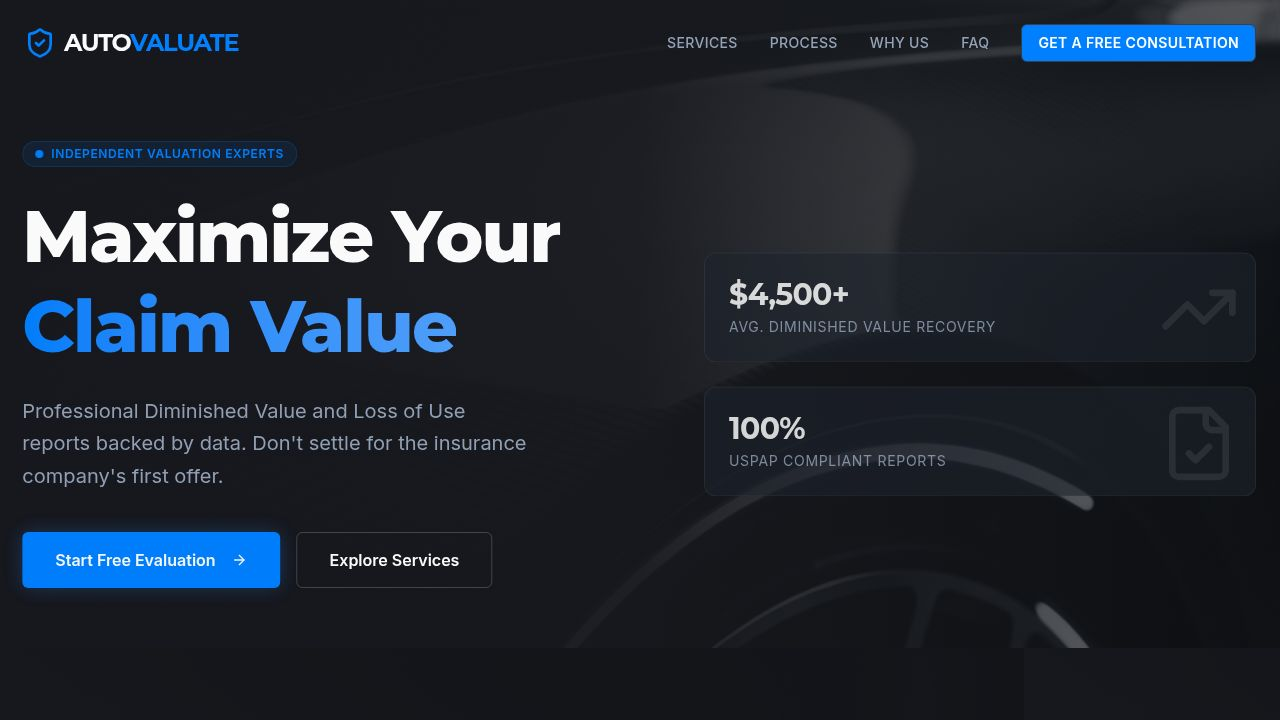
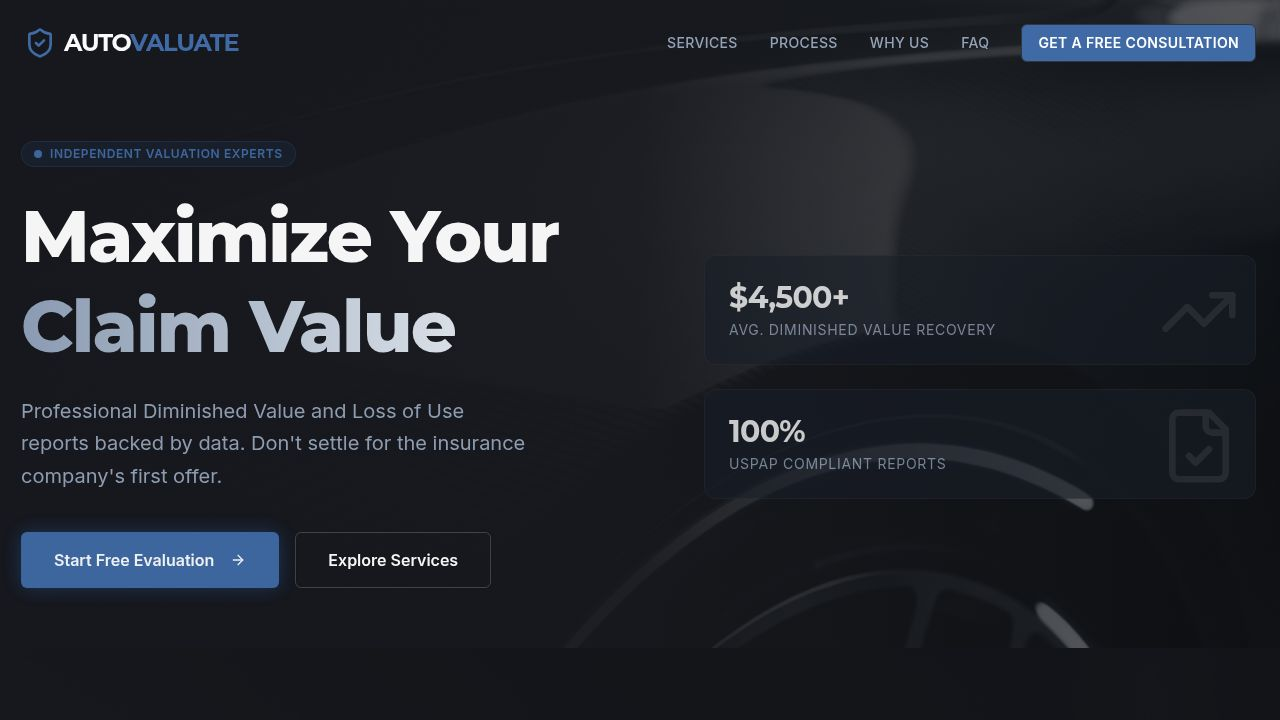
Update site colors to a professional steel blue with subtle graphite accents
Refactors color palette by updating CSS variables to use a desaturated steel blue for primary elements and a graphite/silver for secondary accents, affecting gradients and UI elements.

Replit-Commit-Author: Agent
Replit-Commit-Session-Id: a41c7c4f-b3be-4da7-b386-2bc4f03257c1
Replit-Commit-Checkpoint-Type: full_checkpoint
Replit-Commit-Event-Id: 400f68b1-01b4-464b-a264-b1af1fa9f103
Replit-Commit-Screenshot-Url: https://storage.googleapis.com/screenshot-production-us-central1/ea9309ca-e855-4645-a41a-92645ca743a7/a41c7c4f-b3be-4da7-b386-2bc4f03257c1/hK06aiY
Replit-Helium-Checkpoint-Created: true

diff --git a/client/src/index.css b/client/src/index.css
@@ -60,7 +60,7 @@
   --popover: 220 13% 13%;
   --popover-foreground: 210 20% 98%;
 
-  --primary: 210 100% 50%; /* Sharp Automotive Blue */
+  --primary: 215 45% 45%; /* Professional Steel Blue - Desaturated & Authoritative */
   --primary-foreground: 210 40% 98%;
 
   --secondary: 215 15% 20%; /* Dark Metallic Grey */
@@ -69,21 +69,23 @@
   --muted: 215 15% 20%;
   --muted-foreground: 215 20% 65%;
 
-  --accent: 210 100% 50%; /* Electric Blue Accent */
+  --accent: 215 45% 45%; /* Match primary for consistency */
   --accent-foreground: 210 40% 98%;
 
   --destructive: 0 62.8% 30.6%;
   --destructive-foreground: 210 20% 98%;
 
-  --border: 215 15% 25%;
-  --input: 215 15% 25%;
-  --ring: 210 100% 50%;
+  --border: 215 12% 22%;
+  --input: 215 12% 22%;
+  --ring: 215 45% 45%;
 
-  --chart-1: 220 70% 50%;
-  --chart-2: 160 60% 45%;
-  --chart-3: 30 80% 55%;
-  --chart-4: 280 65% 60%;
-  --chart-5: 340 75% 55%;
+  --tertiary: 215 8% 60%; /* Subtle Graphite/Silver Secondary Accent */
+
+  --chart-1: 215 45% 45%;
+  --chart-2: 160 30% 45%;
+  --chart-3: 30 40% 55%;
+  --chart-4: 280 35% 60%;
+  --chart-5: 340 45% 55%;
 }
 
 @layer base {
@@ -101,21 +103,21 @@
 /* Custom Utilities for Premium Feel */
 @layer utilities {
   .glass-card {
-    background: rgba(30, 35, 45, 0.7);
+    background: rgba(25, 30, 40, 0.75);
     backdrop-filter: blur(12px);
     -webkit-backdrop-filter: blur(12px);
-    border: 1px solid rgba(255, 255, 255, 0.08);
+    border: 1px solid rgba(255, 255, 255, 0.05);
   }
   
   .text-gradient-silver {
-    background: linear-gradient(to bottom right, #ffffff, #a1a1aa);
+    background: linear-gradient(to bottom right, #ffffff, #94a3b8);
     -webkit-background-clip: text;
     background-clip: text;
     color: transparent;
   }
   
   .text-gradient-blue {
-    background: linear-gradient(to right, #3b82f6, #60a5fa);
+    background: linear-gradient(to right, #64748b, #94a3b8); /* Steel blue gradient */
     -webkit-background-clip: text;
     background-clip: text;
     color: transparent;

diff --git a/client/src/components/sections/Services.tsx b/client/src/components/sections/Services.tsx
@@ -9,21 +9,21 @@ const services = [
     title: "Diminished Value Reports",
     description: "Recover the lost market value of your vehicle after an accident. Even with perfect repairs, your car is worth less. We prove it.",
     features: ["Market Analysis", "Repair Quality Assessment", "USPAP Compliant"],
-    color: "text-blue-500",
+    color: "text-slate-400",
   },
   {
     icon: Car,
     title: "Loss of Use Reports",
     description: "Compensation for the time you were without your vehicle. Get paid for the daily rental rate of a comparable luxury vehicle.",
     features: ["Daily Rate Analysis", "Duration Verification", "Case Law Support"],
-    color: "text-amber-500",
+    color: "text-slate-400",
   },
   {
     icon: FileText,
     title: "Vehicle Valuation",
     description: "Independent market analysis for total loss settlements, divorce, estate, or high-value asset appraisals.",
     features: ["Total Loss Negotiation", "Fair Market Value", "Collector Cars"],
-    color: "text-emerald-500",
+    color: "text-slate-400",
   },
   {
     icon: Scale,
@@ -31,7 +31,7 @@ const services = [
     description: "Licensed representation for first-party insurance claims. We handle the negotiation so you don't have to.",
     features: ["First-Party Claims Only", "Negotiation Support", "Policy Review"],
     disclaimer: "*Subject to jurisdiction & licensing",
-    color: "text-purple-500",
+    color: "text-slate-400",
   },
 ];
 

diff --git a/client/src/components/sections/WhyChooseUs.tsx b/client/src/components/sections/WhyChooseUs.tsx
@@ -15,7 +15,7 @@ export default function WhyChooseUs() {
 
         <div className="grid md:grid-cols-2 lg:grid-cols-4 gap-8">
           <div className="text-center space-y-4 p-6 rounded-lg hover:bg-white/5 transition-colors">
-            <div className="w-16 h-16 mx-auto bg-blue-500/10 rounded-full flex items-center justify-center text-blue-500 mb-6">
+            <div className="w-16 h-16 mx-auto bg-slate-400/10 rounded-full flex items-center justify-center text-slate-400 mb-6">
               <Shield size={32} />
             </div>
             <h3 className="text-xl font-heading font-bold text-white">Unbiased Analysis</h3>
@@ -23,7 +23,7 @@ export default function WhyChooseUs() {
           </div>
 
           <div className="text-center space-y-4 p-6 rounded-lg hover:bg-white/5 transition-colors">
-            <div className="w-16 h-16 mx-auto bg-amber-500/10 rounded-full flex items-center justify-center text-amber-500 mb-6">
+            <div className="w-16 h-16 mx-auto bg-slate-400/10 rounded-full flex items-center justify-center text-slate-400 mb-6">
               <Users size={32} />
             </div>
             <h3 className="text-xl font-heading font-bold text-white">Expert Team</h3>
@@ -31,7 +31,7 @@ export default function WhyChooseUs() {
           </div>
 
           <div className="text-center space-y-4 p-6 rounded-lg hover:bg-white/5 transition-colors">
-            <div className="w-16 h-16 mx-auto bg-emerald-500/10 rounded-full flex items-center justify-center text-emerald-500 mb-6">
+            <div className="w-16 h-16 mx-auto bg-slate-400/10 rounded-full flex items-center justify-center text-slate-400 mb-6">
               <Search size={32} />
             </div>
             <h3 className="text-xl font-heading font-bold text-white">Data Driven</h3>
@@ -39,7 +39,7 @@ export default function WhyChooseUs() {
           </div>
 
           <div className="text-center space-y-4 p-6 rounded-lg hover:bg-white/5 transition-colors">
-            <div className="w-16 h-16 mx-auto bg-purple-500/10 rounded-full flex items-center justify-center text-purple-500 mb-6">
+            <div className="w-16 h-16 mx-auto bg-slate-400/10 rounded-full flex items-center justify-center text-slate-400 mb-6">
               <Award size={32} />
             </div>
             <h3 className="text-xl font-heading font-bold text-white">Proven Results</h3>

diff --git a/client/src/components/sections/Hero.tsx b/client/src/components/sections/Hero.tsx
@@ -33,7 +33,7 @@ export default function Hero() {
 
           <h1 className="text-4xl md:text-6xl lg:text-7xl font-heading font-extrabold leading-tight text-white">
             Maximize Your <br />
-            <span className="text-transparent bg-clip-text bg-gradient-to-r from-primary to-blue-400">
+            <span className="text-transparent bg-clip-text bg-gradient-to-r from-slate-400 to-slate-200">
               Claim Value
             </span>
           </h1>